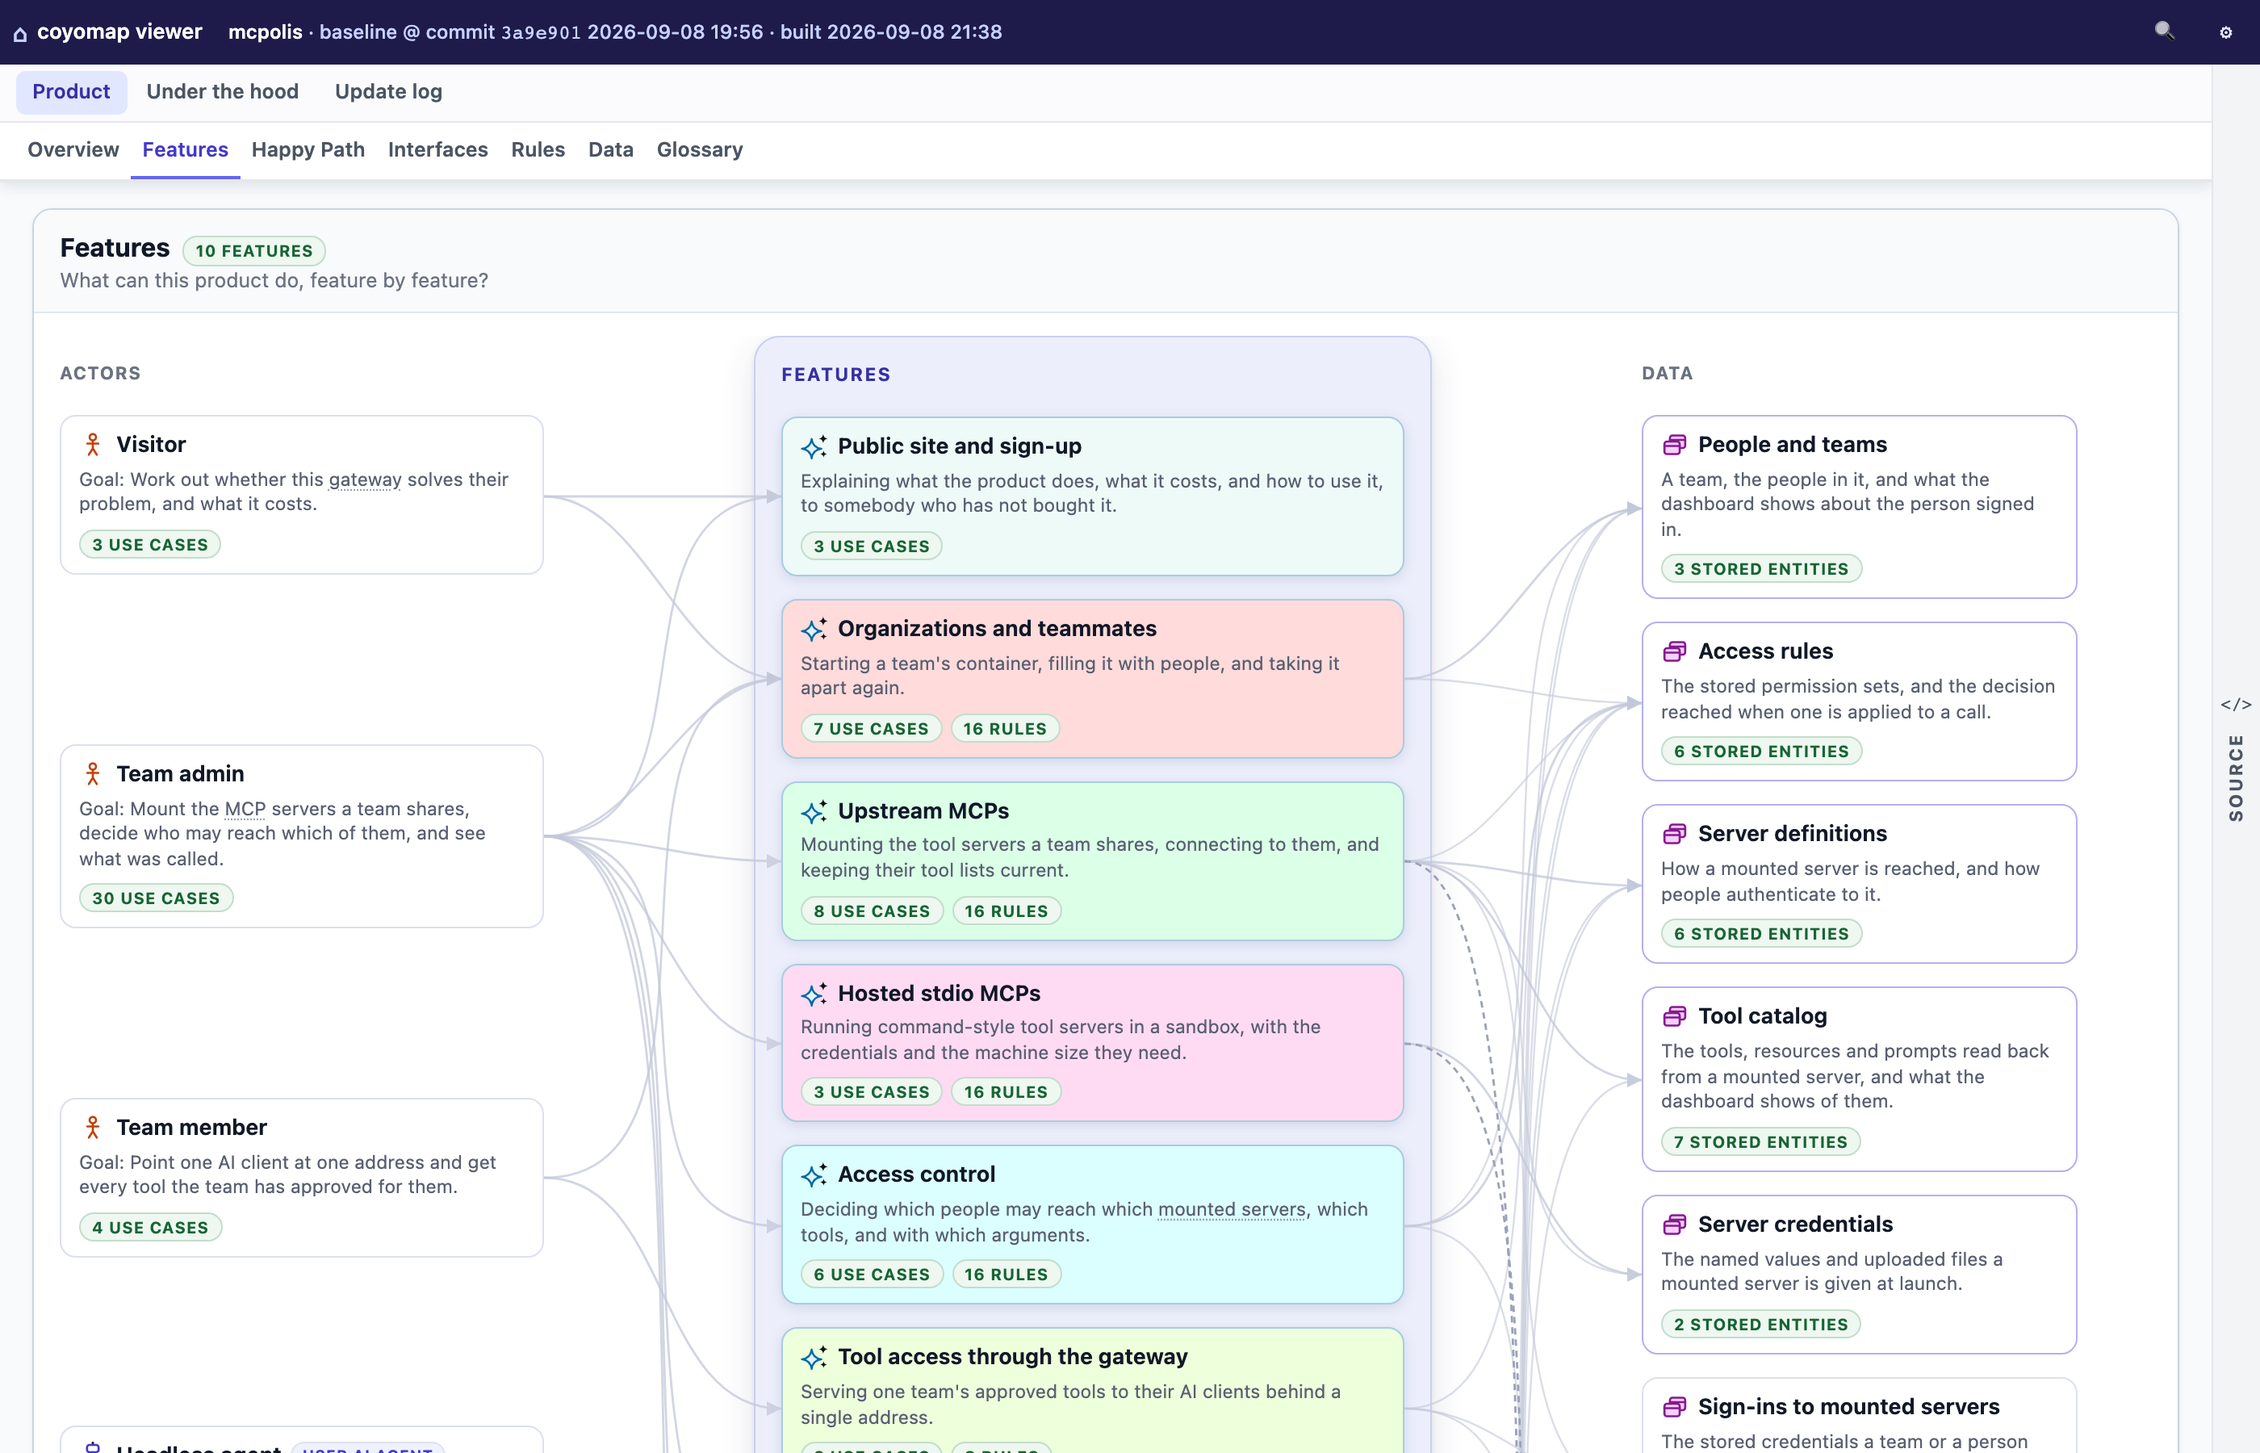
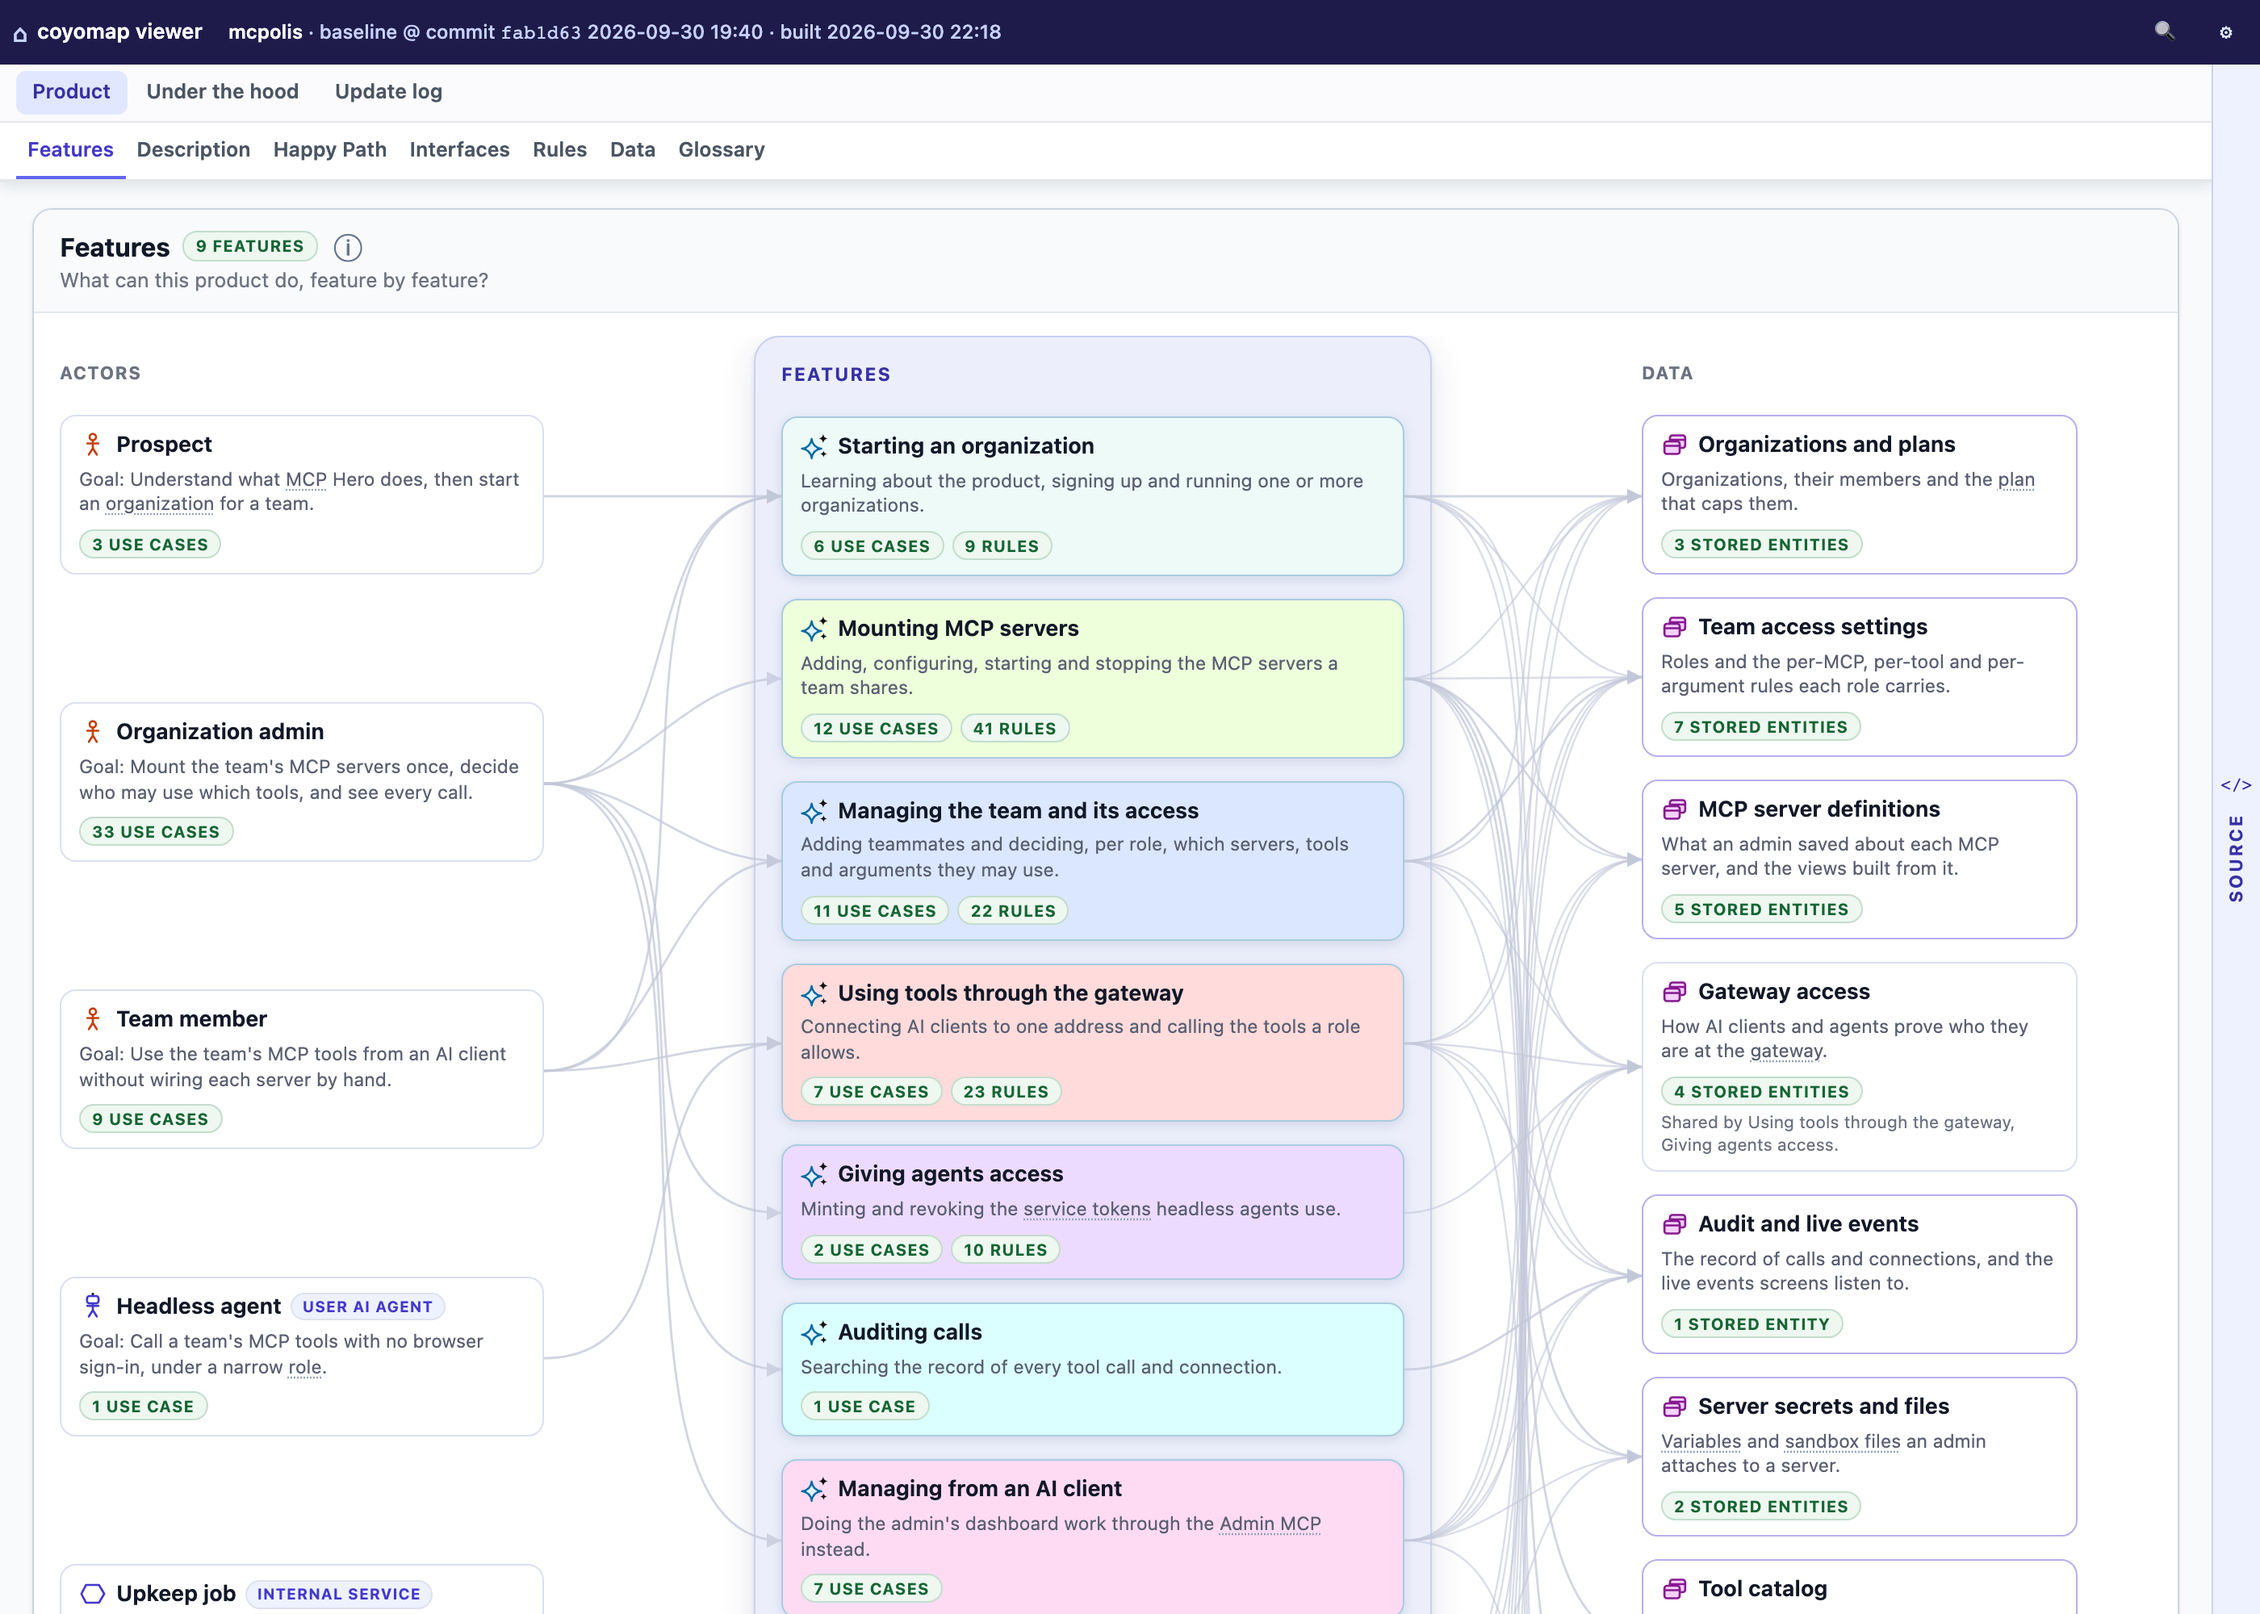
Refresh README guidance and screenshots; save local agent configuration

diff --git a/README.md b/README.md
@@ -1,129 +1,122 @@
-<div align="center">
-
 <img src="assets/running-off-the-cliff.png" alt="Wile E. Coyote running off the cliff, drawn as ASCII art: teal characters on black, the cliff edge in orange on the left" width="640">
 
 # coyomap: agentic coding without running off the cliff
 
 A map of your project, from features down to the code
 
-</div>
-
 ## Why coyomap?
 
 When coding agents generate most of your code, you can lose track of your project's features
 and implementation. Everything runs fine until the day you look down and see there is nothing under
-your feet. This is the Coyote Effect.
+your feet.
 
-coyomap helps you avoid the Coyote Effect: you keep visibility into the project and find your way
-around it as it grows.
+coyomap helps you keep visibility into the project and find your way around it as it grows.
 
 ## What is coyomap?
 
-coyomap analyzes your project and builds an interactive map of its features, in plain language,
-linked to the underlying architecture and code. Use it to understand what your project does and
-how it is implemented, top-down, without reading all the code. Drill into the code only where and
-when you actually need to.
+coyomap analyzes your project and builds an interactive map of its features and use cases, linked to the underlying architecture, data model and code. Map components are annotated with plain language descriptions of their goal and function. Use the map to understand what your project does and how it is implemented, top-down, drilling down into the code only when needed.
 
-It is also a shared picture of the project for your non-developer teammates. Hand it to them as a
-link: coyomap writes the map out as a plain website you can host anywhere, and a reader needs no
-repo and nothing installed.
+The map also provides a shared picture of the project for your non-developer teammates.
 
 ## What coyomap shows
 
-The viewer shows your project in three views: *Product*, *Under the hood* and *Update log*.
+The viewer shows your project in three sections: *Product*, *Under the hood* and *Update log*.
 
 **Product** shows the project's functionality: who uses it, its features and use cases, the happy
 path, the rules it enforces, and the data it keeps.
 
-<img src="assets/viewer-product.png" alt="The coyomap viewer on a project's Features page: the people who use the product on the left, its features in happy-path order in the middle, and the data each feature owns on the right. No code on screen." width="80%">
+<img src="assets/viewer-product.png" alt="MCP Hero's Features diagram, connecting actors, features, and data subdomains" width="80%">
 
-**Under the hood** shows how the project is built and run: its components and their dependencies,
-where data is stored, how it is deployed.
+*Features diagram for the [MCP Hero project](https://github.com/nseniak/mcphero).*
 
-<img src="assets/viewer-hood.png" alt="The coyomap viewer on a project's Components page: the map of one subsystem with one component selected and explained in a sentence, and that component's source code open on the right at the line the map points to." width="80%">
+**Under the hood** shows how the project is built and run: its architecture, components, dependencies, how its data is stored, and how it is deployed.
+
+<img src="assets/viewer-hood.png" alt="MCP Hero's Architecture diagram, centered at 75% zoom" width="80%">
+
+*Architecture diagram for the [MCP Hero project](https://github.com/nseniak/mcphero), centered at 75% zoom.*
 
 **Update log** shows how the product changed, one entry per update of the map (`/coyomap update`), newest first.
-An update's page tells its story by feature, in plain words: what the product now does differently,
-which boxes it touched, the evidence, with the map's own diff for that step underneath.
-
-You can start from a feature and drill down: the interfaces and data it touches, the components that do the
-work, and the code behind each.
 
 ## Why not just ask my agent to explain the code?
 
 You can ask your agent to analyze the code, generate summaries and draw diagrams. However, coyomap
 differs in two ways:
 
-- coyomap builds an explorable, hierarchical map: every box has a plain-language note, links to
-  related elements, and links into the architecture and code. The map is saved with the project, so
-  everyone sees the same one.
-- An AI agent can miss things or make things up. So coyomap reads the code with the help of an
-  index, makes every claim point at a real file and line, checks the map for gaps and
-  contradictions, and has fresh agents try to prove each claim wrong before the map is written.
+- coyomap builds an explorable, hierarchical map, with cross-reference links and plain-language annotations. The map is saved as a set of files that can be committed and shared with the project, so everyone sees the same one.
+- An AI agent can miss things or make things up. coyomap combines code indexing, automated consistency checks, and independent agent reviews to find gaps and unsupported claims.
 
 ## How to use
 
-coyomap runs as a skill on Claude Code, Codex and Cursor. Any other agent that can read this
-repo works too: ask it to read `method.md` and follow it.
+coyomap runs as a skill on Claude Code, Codex and other coding agents.
 
-### Install once
+### Install
+
+To install coyomap, clone this repo and run `make install`. This installs the CLI in a local virtual environment and copies the skill into the supported agents’ skill folders. Keep this clone in place.
 
 ```
+# Install coyomap
 git clone https://github.com/nseniak/coyomap.git
 cd coyomap
 make install
 ```
 
-Needs Python 3.10+. Run `make install` again after every `git pull`.
+The coyomap CLI runs on Python 3.10+, which needs to be installed on your machine.
+
+Run `make install` again after each new `git pull`.
 
 ### Map your project
 
+To create the map of your project, run the `/coyomap` command in your project's agent. Use a capable coding model at its default effort setting (e.g., Opus 5.5 at medium effort). Allow about an hour for the initial build; larger projects can take longer, depending on the model and agent.
+
 ```
+# Build the map
 cd ~/my-project
 claude
 /coyomap
 ```
 
-It tells you what it is about to read before it starts, and hands you a link to the map when it
-is done. The map lands in `.coyomap/` — commit it with your code.
-
-The first build is the agent's biggest job: up to an hour, once per project. Everything after it
-is cheap.
+The map is created in your project's `.coyomap/` subdirectory. Commit it with your code if you want to share it.
 
 ### Keep it in step
 
-```
-# after the code changed
-/coyomap update
+After committing your code changes, run an incremental update of the map.
 
+```
+# After committing code changes
+/coyomap update
+```
+
+### Interacting with the map
+
+You may use the coyomap skill to ask questions about the map and request updates.
+
+```
 # ask for a change to the map itself
 /coyomap rename the "API" subsystem to "Public API"
 ```
 
-### Share it
+### Share the map
+
+Export the map as a static website that others can browse without installing coyomap.
 
 ```
+# To export the map
 cd coyomap && .venv/bin/coyomap export ~/my-project --out ./site
 ```
 
-A folder of plain files: the viewer, the map, and your code. Put it on GitHub Pages or any web
-host and send the link. Nothing runs on the server. It is a snapshot, so export again after the
-map changes.
+This command generates a folder of plain files: the viewer, the map, and your code. Put it on GitHub Pages or any web host and send the link. Nothing runs on the server. It is a snapshot, so export again after the map changes.
 
 ## Which files are analyzed
 
-coyomap takes every file in your project, except two sets: what your `.gitignore` excludes, and what
-`.coyomap/.ignore` excludes. git decides the first one, so all the usual rules hold, including a
-`.gitignore` inside a subfolder. `.coyomap/.ignore` uses the same syntax, and is for the other case:
-code that *is* committed, but that you don't want on the map — a vendored copy, checked-in build
-output, a fixture tree. The build reports what each pattern removed, so an exclusion never goes
-unnoticed.
+coyomap analyzes your project's source files, excluding common dependencies and generated files.
+In Git repositories, it respects Git's ignore rules for untracked files. Add further exclusions
+in `.coyomap/.ignore`, which supports a subset of gitignore syntax, including wildcards and negation.
+Use it for committed code you don't want on the map, such as a fixture tree. The build reports
+what each pattern removed.
 
 ## Status
 
 coyomap is **work in progress**, in daily use. The stored map format still moves: a newer coyomap
-may not read an older map, and a rebuild is the fix, so treat a map as replaceable. A rebuild is a
-fresh start: it does not re-apply the changes you asked for by hand. Map quality
-depends on the coding agent and model: read it, and correct it.
+may not read an older map, and a rebuild is the fix, so treat a map as replaceable. Rebuilding can overwrite manual changes to the map.
 
 Feedback and bug reports are welcome, please [open an issue](../../issues).
